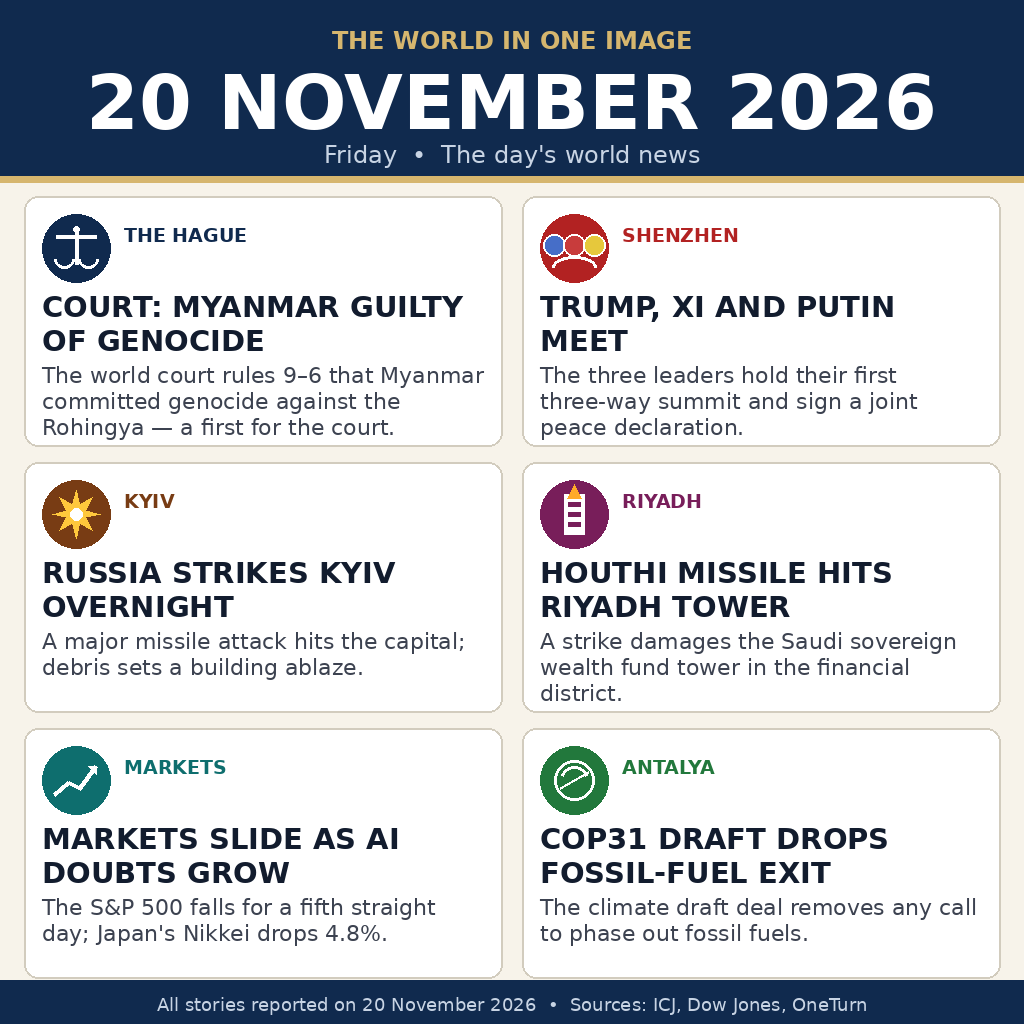
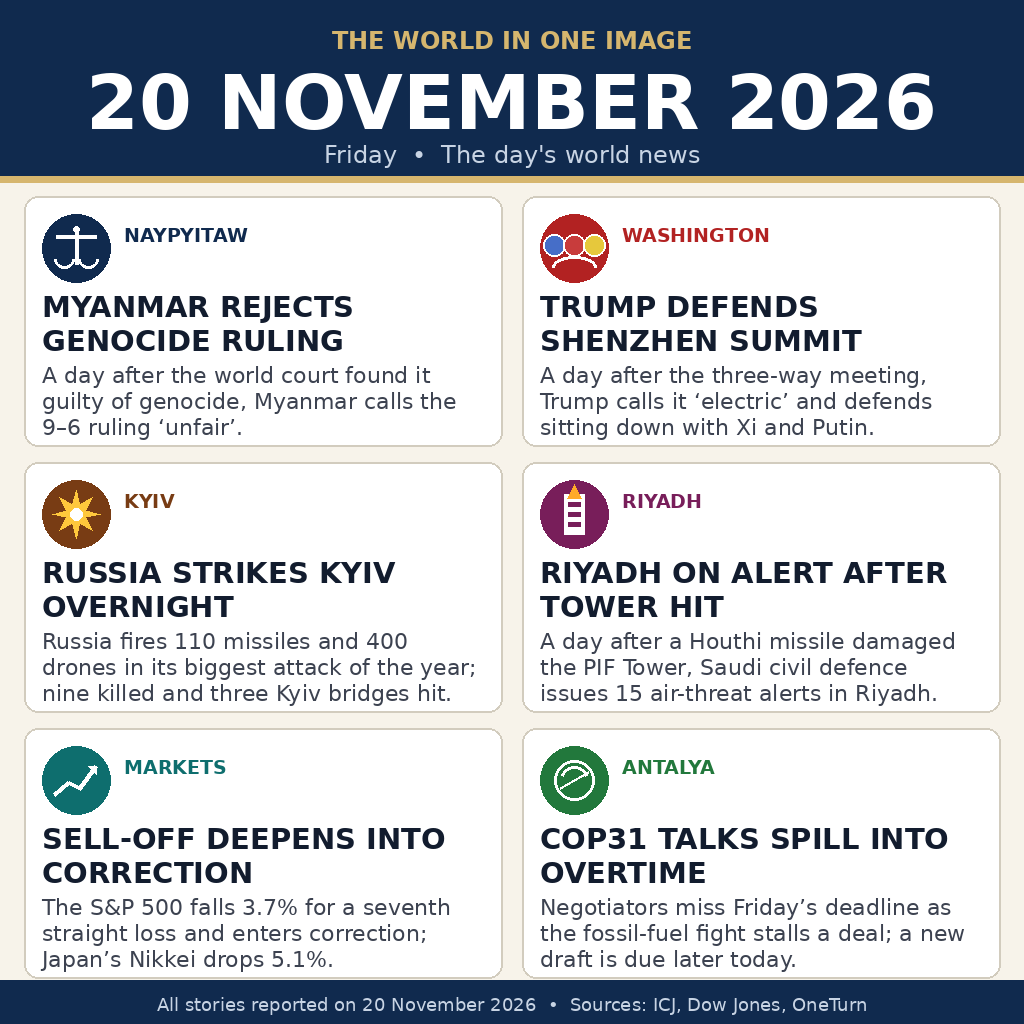
Re-date all six panels to Friday 20 November 2026
The ICJ ruling and Shenzhen summit happened Thu 19 Nov, so both
panels now cover their Fri 20 Nov follow-ups (Myanmar rejecting the
ruling; Trump defending the summit). The Riyadh strike and COP31
draft were also Thu 19 Nov, so those panels now cover Fri 20 Nov
developments (15 civil-defence alerts in Riyadh; COP31 talks
spilling into overtime). Markets reframed to Friday's close
(S&P -3.7%, seventh straight loss, correction; Nikkei -5.1%).
Kyiv kept: the overnight barrage was genuinely Fri 20 Nov, with
verified figures (110 missiles, 400 drones, nine killed).

diff --git a/draw.py b/draw.py
@@ -43,24 +43,24 @@ def wrap(text, font, width):
     return lines
 
 panels = [
-    ("THE HAGUE", (16, 42, 78), "scales",
-     "COURT: MYANMAR GUILTY OF GENOCIDE",
-     "The world court rules 9\u20136 that Myanmar committed genocide against the Rohingya \u2014 a first for the court."),
-    ("SHENZHEN", (178, 34, 34), "summit",
-     "TRUMP, XI AND PUTIN MEET",
-     "The three leaders hold their first three-way summit and sign a joint peace declaration."),
+    ("NAYPYITAW", (16, 42, 78), "scales",
+     "MYANMAR REJECTS GENOCIDE RULING",
+     "A day after the world court found it guilty of genocide, Myanmar calls the 9\u20136 ruling \u2018unfair\u2019."),
+    ("WASHINGTON", (178, 34, 34), "summit",
+     "TRUMP DEFENDS SHENZHEN SUMMIT",
+     "A day after the three-way meeting, Trump calls it \u2018electric\u2019 and defends sitting down with Xi and Putin."),
     ("KYIV", (120, 60, 20), "burst",
      "RUSSIA STRIKES KYIV OVERNIGHT",
-     "A major missile attack hits the capital; debris sets a building ablaze."),
+     "Russia fires 110 missiles and 400 drones in its biggest attack of the year; nine killed and three Kyiv bridges hit."),
     ("RIYADH", (120, 30, 90), "tower",
-     "HOUTHI MISSILE HITS RIYADH TOWER",
-     "A strike damages the Saudi sovereign wealth fund tower in the financial district."),
+     "RIYADH ON ALERT AFTER TOWER HIT",
+     "A day after a Houthi missile damaged the PIF Tower, Saudi civil defence issues 15 air-threat alerts in Riyadh."),
     ("MARKETS", (14, 110, 110), "chart",
-     "MARKETS SLIDE AS AI DOUBTS GROW",
-     "The S&P 500 falls for a fifth straight day; Japan's Nikkei drops 4.8%."),
+     "SELL-OFF DEEPENS INTO CORRECTION",
+     "The S&P 500 falls 3.7% for a seventh straight loss and enters correction; Japan\u2019s Nikkei drops 5.1%."),
     ("ANTALYA", (34, 120, 60), "leaf",
-     "COP31 DRAFT DROPS FOSSIL-FUEL EXIT",
-     "The climate draft deal removes any call to phase out fossil fuels."),
+     "COP31 TALKS SPILL INTO OVERTIME",
+     "Negotiators miss Friday\u2019s deadline as the fossil-fuel fight stalls a deal; a new draft is due later today."),
 ]
 
 def draw_icon(cx, cy, kind, color):
